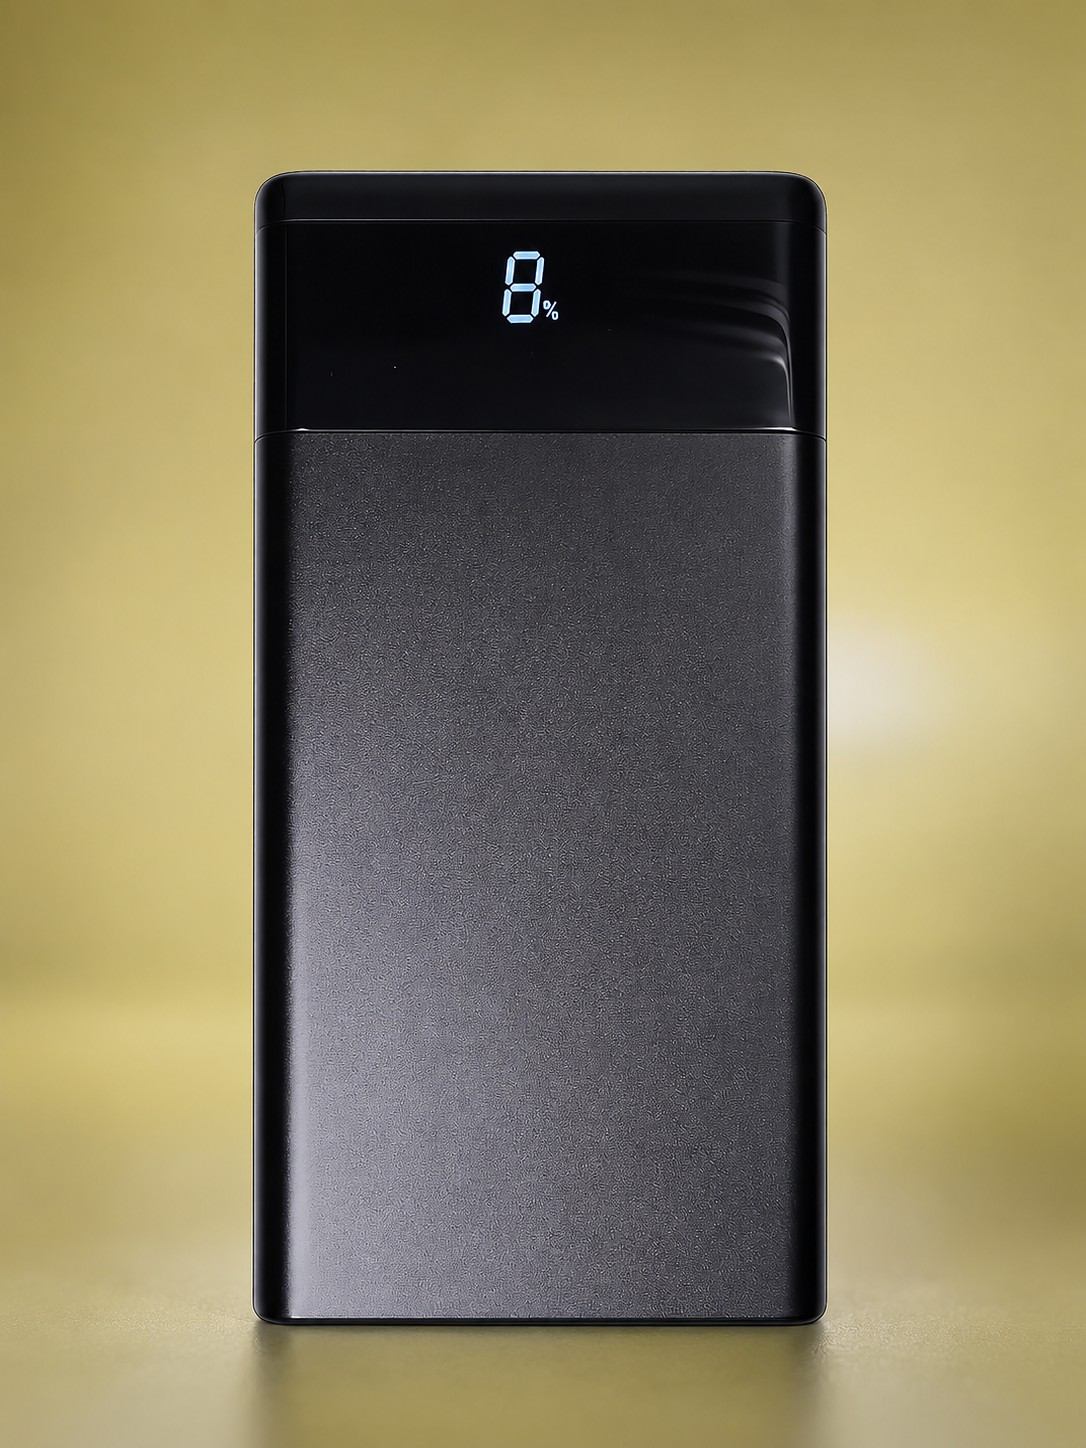
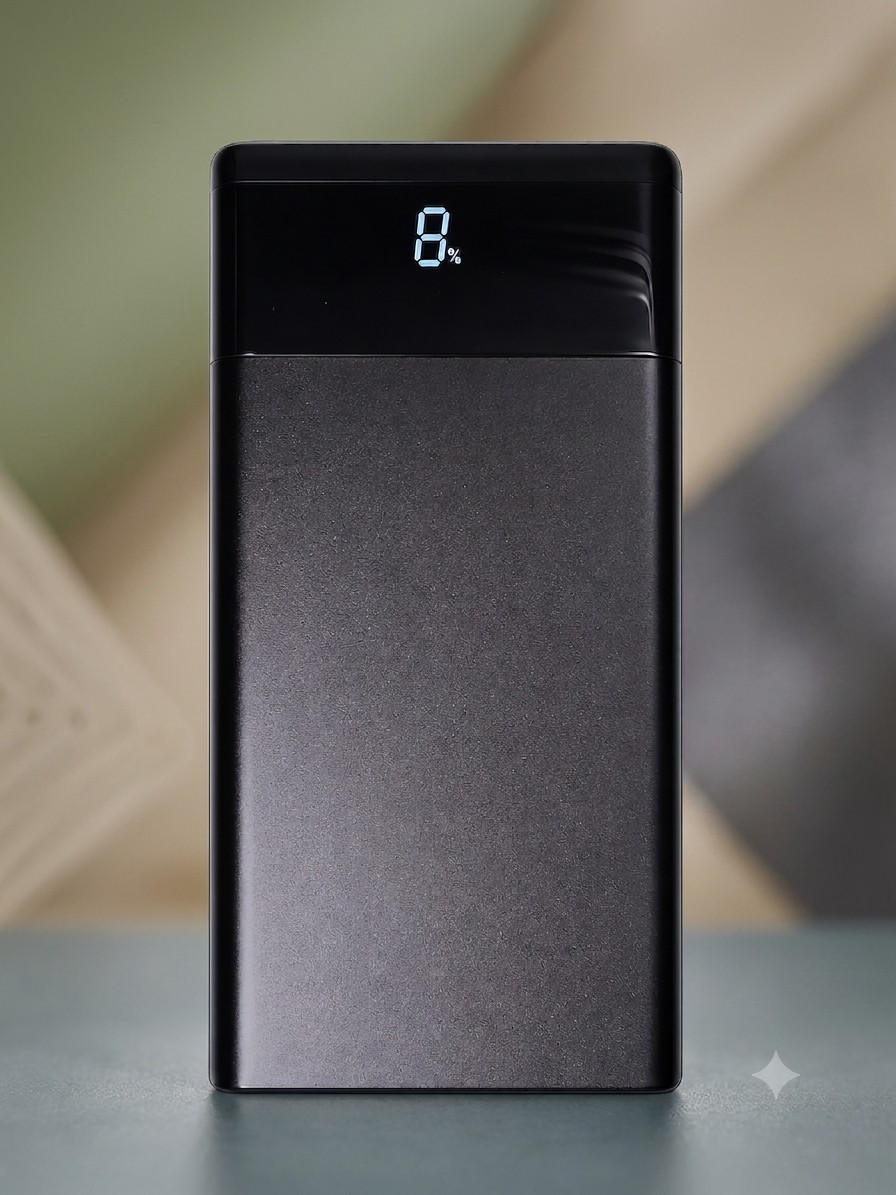
update new version

diff --git a/data.js b/data.js
@@ -4,7 +4,7 @@ const products = [
         id: 1, 
         category: 'du-phong', 
         name: 'Sạc dự phòng 25.000 mah', 
-        fullDesc: 'Sạc dự phòng 25.000 mah<br>Lõi pin: LGMJ1, EVE35V<br>Dung lượng: 25.000 mah<br>Công suất 22.5W<br>Chất liệu: Vỏ nhôm và nhựa ABS<br>Giá:420K',
+        fullDesc: 'Sạc dự phòng 25.000 mah<br>Lõi pin: LGMJ1, EVE35V<br>Dung lượng: 25.000 mah<br>Công suất 22.5W<br>Cổng sạc input: Type C, Micro, Lightning<br>Cổng sạc Output: USB, Type C<br>Chất liệu: Vỏ nhôm và nhựa ABS<br>Kích thước: 160x82x24<br>Giá:420K',
         image: 'media/sdp8cellnhom3.jpg', // Đường dẫn lấy ảnh từ thư viện media của m
          // Thêm mảng này để chứa nhiều hình cho phần xem chi tiết
         images: [
@@ -19,10 +19,46 @@ const products = [
     { 
         id: 2, 
         category: 'du-phong', 
-        name: 'Trạm Sạc Dự Phòng 65W PD', 
-        shortDesc: 'Sạc nhanh siêu tốc cho Laptop, Điện thoại, Máy tính bảng.', 
-        fullDesc: 'Dung lượng thực 20.000mAh sử dụng lốc cell Lithium chính hãng nội trở thấp. Thiết kế vỏ hợp kim nhôm CNC tản nhiệt tốt, trang bị mạch sạc nhanh đa giao thức Power Delivery 65W.', 
-        image: 'media/pin-du-phong/sac-65w.jpg'
+        name: 'Sạc Dự Phòng 20.000 mah', 
+        fullDesc: 'Sạc dự phòng 20.000 mah<br>Lõi pin: LG50LT, LGM52VT, Samsung50E<br>Dung lượng: 20.000 mah<br>Công suất 22.5W<br>Cổng sạc input: Type C<br>Cổng sạc Output: USB, Type C<br>Chất liệu: Vỏ nhôm và nhựa ABS<br>Có đèn led và dây sạc type C và Lightning đi kèm<br>Kích thước:120x52x55<br>Giá:450K',
+        image: 'media/sdp_Nhom_4cell_Lightandcable_Green.jpg',
+         // Thêm mảng này để chứa nhiều hình cho phần xem chi tiết
+        images: [
+           "media/sdp_Nhom_4cell_Lightandcable_Green.jpg", 
+           "media/sdp_Nhom_4cell_Lightandcable_White.jpg", 
+           "media/sdp_Nhom_4cell_Lightandcable.jpg"
+          
+        ]
+    },
+    { 
+        id: 3, 
+        category: 'du-phong', 
+        name: 'Sạc dự phòng 25.000 mah', 
+        fullDesc: 'Sạc dự phòng 25.000 mah<br>Lõi pin: LGMJ1, EVE35V<br>Dung lượng: 25.000 mah<br>Công suất 22.5W<br>Cổng sạc input: Type C<br>Cổng sạc Output: USB, Type C<br>Chất liệu: Vỏ mica và nhựa ABS<br>Skin Pin in theo yêu cầu +20K<br>Kích thước: 150x45x56<br>Giá:400K',
+        image: 'media/sdp_8cell_18650_Skin1.jpg', // Đường dẫn lấy ảnh từ thư viện media của m
+         // Thêm mảng này để chứa nhiều hình cho phần xem chi tiết
+        images: [
+           "media/sdp_8cell_18650_Skin1.jpg", 
+           "media/sdp_8cell_18650_Skin4.jpg", 
+           "media/sdp_8cell_18650_Skin2.jpg",
+           "media/Skin_18650.jpg"
+          
+        ]
+       
+    },
+    { 
+        id: 4, 
+        category: 'du-phong', 
+        name: 'Sạc Dự Phòng 20.000 mah', 
+        fullDesc: 'Sạc dự phòng 20.000 mah<br>Lõi pin: LG50LT, LGM52VT, Samsung50E<br>Dung lượng: 20.000 mah<br>Công suất 22.5W<br>Cổng sạc input: Type C<br>Cổng sạc Output: USB, Type C<br>Chất liệu: Vỏ nhôm và nhựa ABS<br>Kích thước: 110x48x47<br>Giá:420K',
+        image: 'media/sdp_Nhom_4cell.jpg',
+         // Thêm mảng này để chứa nhiều hình cho phần xem chi tiết
+        images: [
+           "media/sdp_Nhom_4cell.jpg", 
+           "media/sdp_Nhom_4cell2.jpg", 
+           "media/sdp_Nhom_4cell3.jpg",
+           "media/sdp_Nhom_4cell4.jpg"
+        ]
     },
 
     // --- 🛠️ PIN MÁY CÔNG CỤ ---

diff --git a/main.js b/main.js
@@ -70,8 +70,8 @@ function showDetail(id) {
                 <div class="img-container w-full h-full rounded-xl bg-inner shadow-inner border border-gray-700 overflow-hidden flex items-center justify-center">
                     <img id="main-target-img" src="${currentImgList[0]}" class="max-w-full max-h-full object-contain transition-all duration-300">
                 </div>
-                <button onclick="changeImage(-1)" class="${arrowClass} absolute left-2 top-1/2 -translate-y-1/2 w-10 h-10 bg-black/60 hover:bg-black/80 text-white font-bold rounded-full flex items-center justify-center transition shadow-md z-10 text-xl">&#10094;</button>
-                <button onclick="changeImage(1)" class="${arrowClass} absolute right-2 top-1/2 -translate-y-1/2 w-10 h-10 bg-black/60 hover:bg-black/80 text-white font-bold rounded-full flex items-center justify-center transition shadow-md z-10 text-xl">&#10095;</button>
+                <button onclick="changeImage(-1)" class="${arrowClass} absolute left-2 top-1/2 -translate-y-1/2 w-10 h-10 bg-black/20 hover:bg-black/40 backdrop-blur-sm text-white rounded-full flex items-center justify-center transition-all z-10 text-xl font-bold border border-white/20">&#10094;</button>
+                <button onclick="changeImage(1)" class="${arrowClass} absolute right-2 top-1/2 -translate-y-1/2 w-10 h-10 bg-black/20 hover:bg-black/40 backdrop-blur-sm text-white rounded-full flex items-center justify-center transition-all z-10 text-xl font-bold border border-white/20">&#10095;</button>
             </div>
             <p class="text-lg uppercase tracking-wider mt-6 mb-4 font-semibold text-gray-700">
                 Danh mục: ${p.category === 'du-phong' ? 'Pin Dự Phòng' : p.category === 'may-cong-cu' ? 'Pin Máy Công Cụ' : 'Pin Lưu Trữ hehe'}